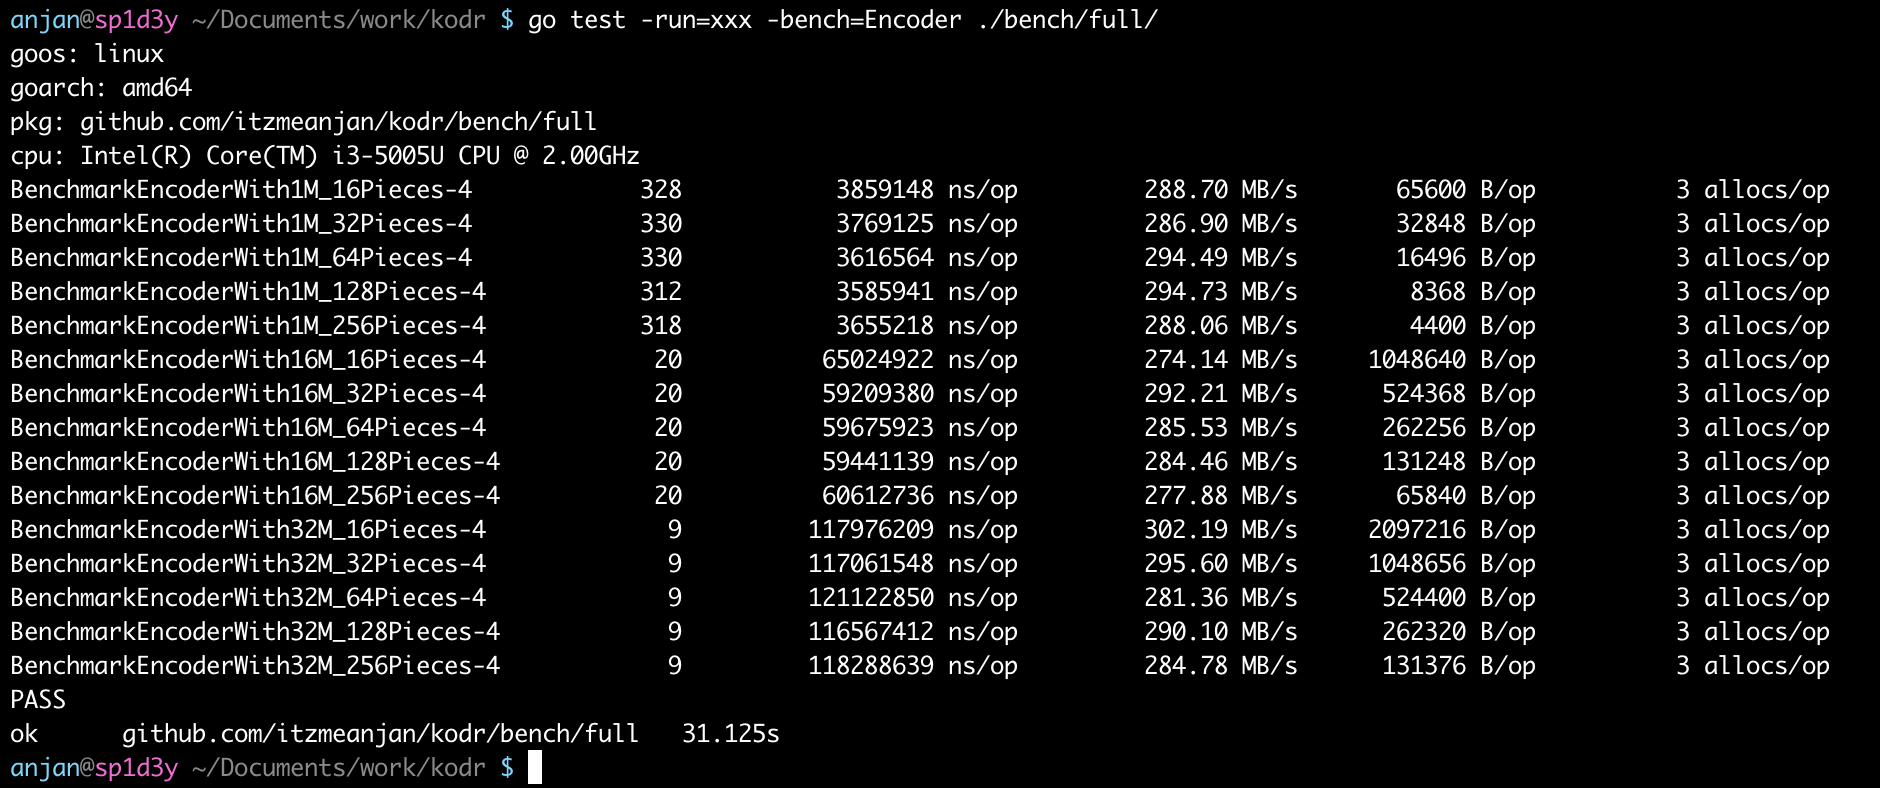
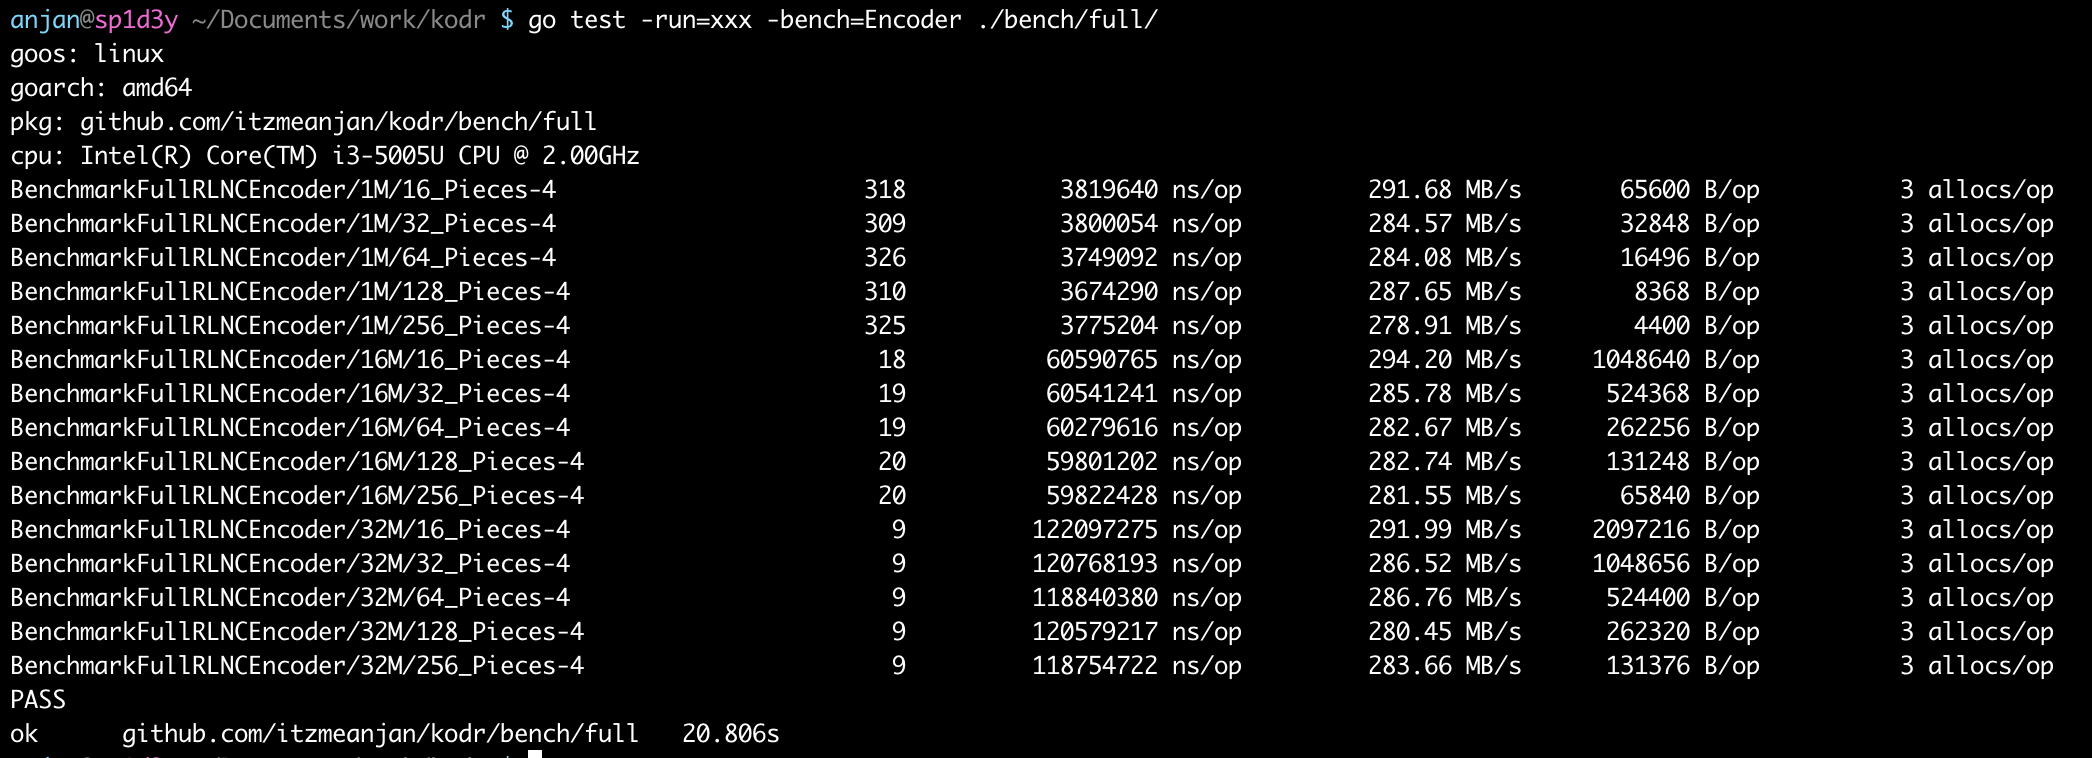
benchmarking results updated

diff --git a/README.md b/README.md
@@ -42,11 +42,11 @@ For benchmarking **encoder** of full RLNC, execute
 go test -run=xxx -bench=Encoder ./bench/full/
 ```
 
-> Coding speed at **~ 300MB/s**
+> Coding speed at **~ 290MB/s**
 
 ![benchmark_full_encoder](./img/benchmark_full_encoder.png)
 
-Looking at **recoder** performance
+Looking at full RLNC **recoder** performance
 
 ```bash
 go test -run=xxx -bench=Recoder ./bench/full/
@@ -55,6 +55,12 @@ go test -run=xxx -bench=Recoder ./bench/full/
 > Recoding speed at **~ 290MB/s**
 
 ![benchmark_full_recoder](./img/benchmark_full_recoder.png)
+
+And **decoder** performance denotes each round of full data reconstruction from N-many coded pieces taking `X second`, on average. 
+
+> Note: It can be clearly understood that decoding complexity keeps increasing very fast, when using full RLNC with large data chunks. For decoding 2MB total chunk which is splitted into 256 pieces of equal sized byte slice, it takes ~6s.
+
+![benchmark_full_decoder](./img/benchmark_full_decoder.png)
 
 ## Usage
 
